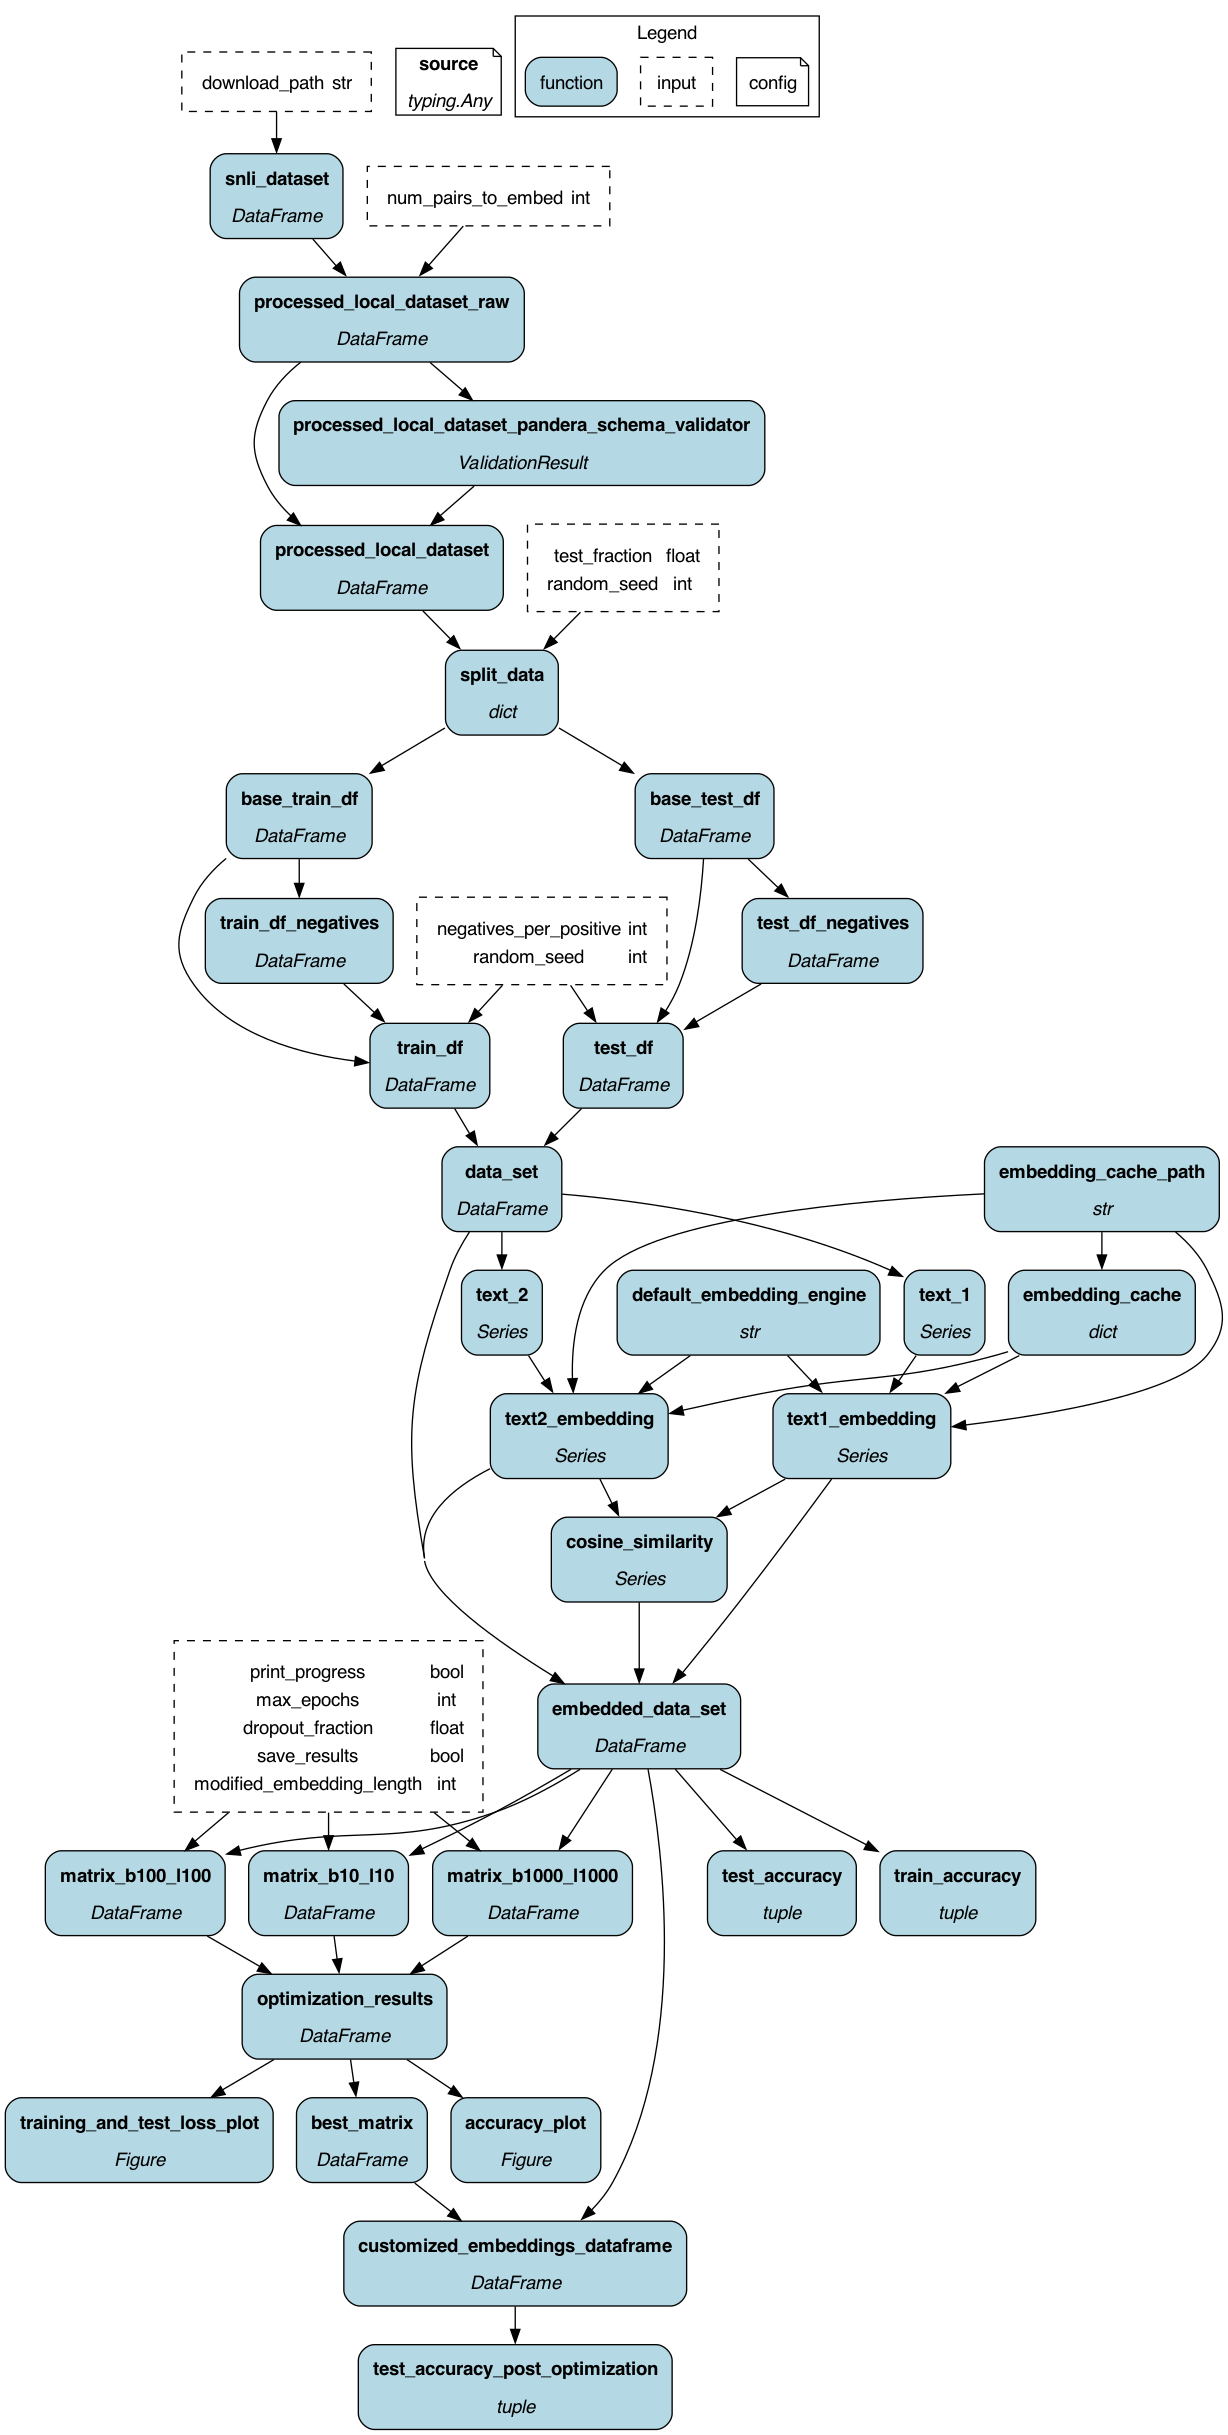
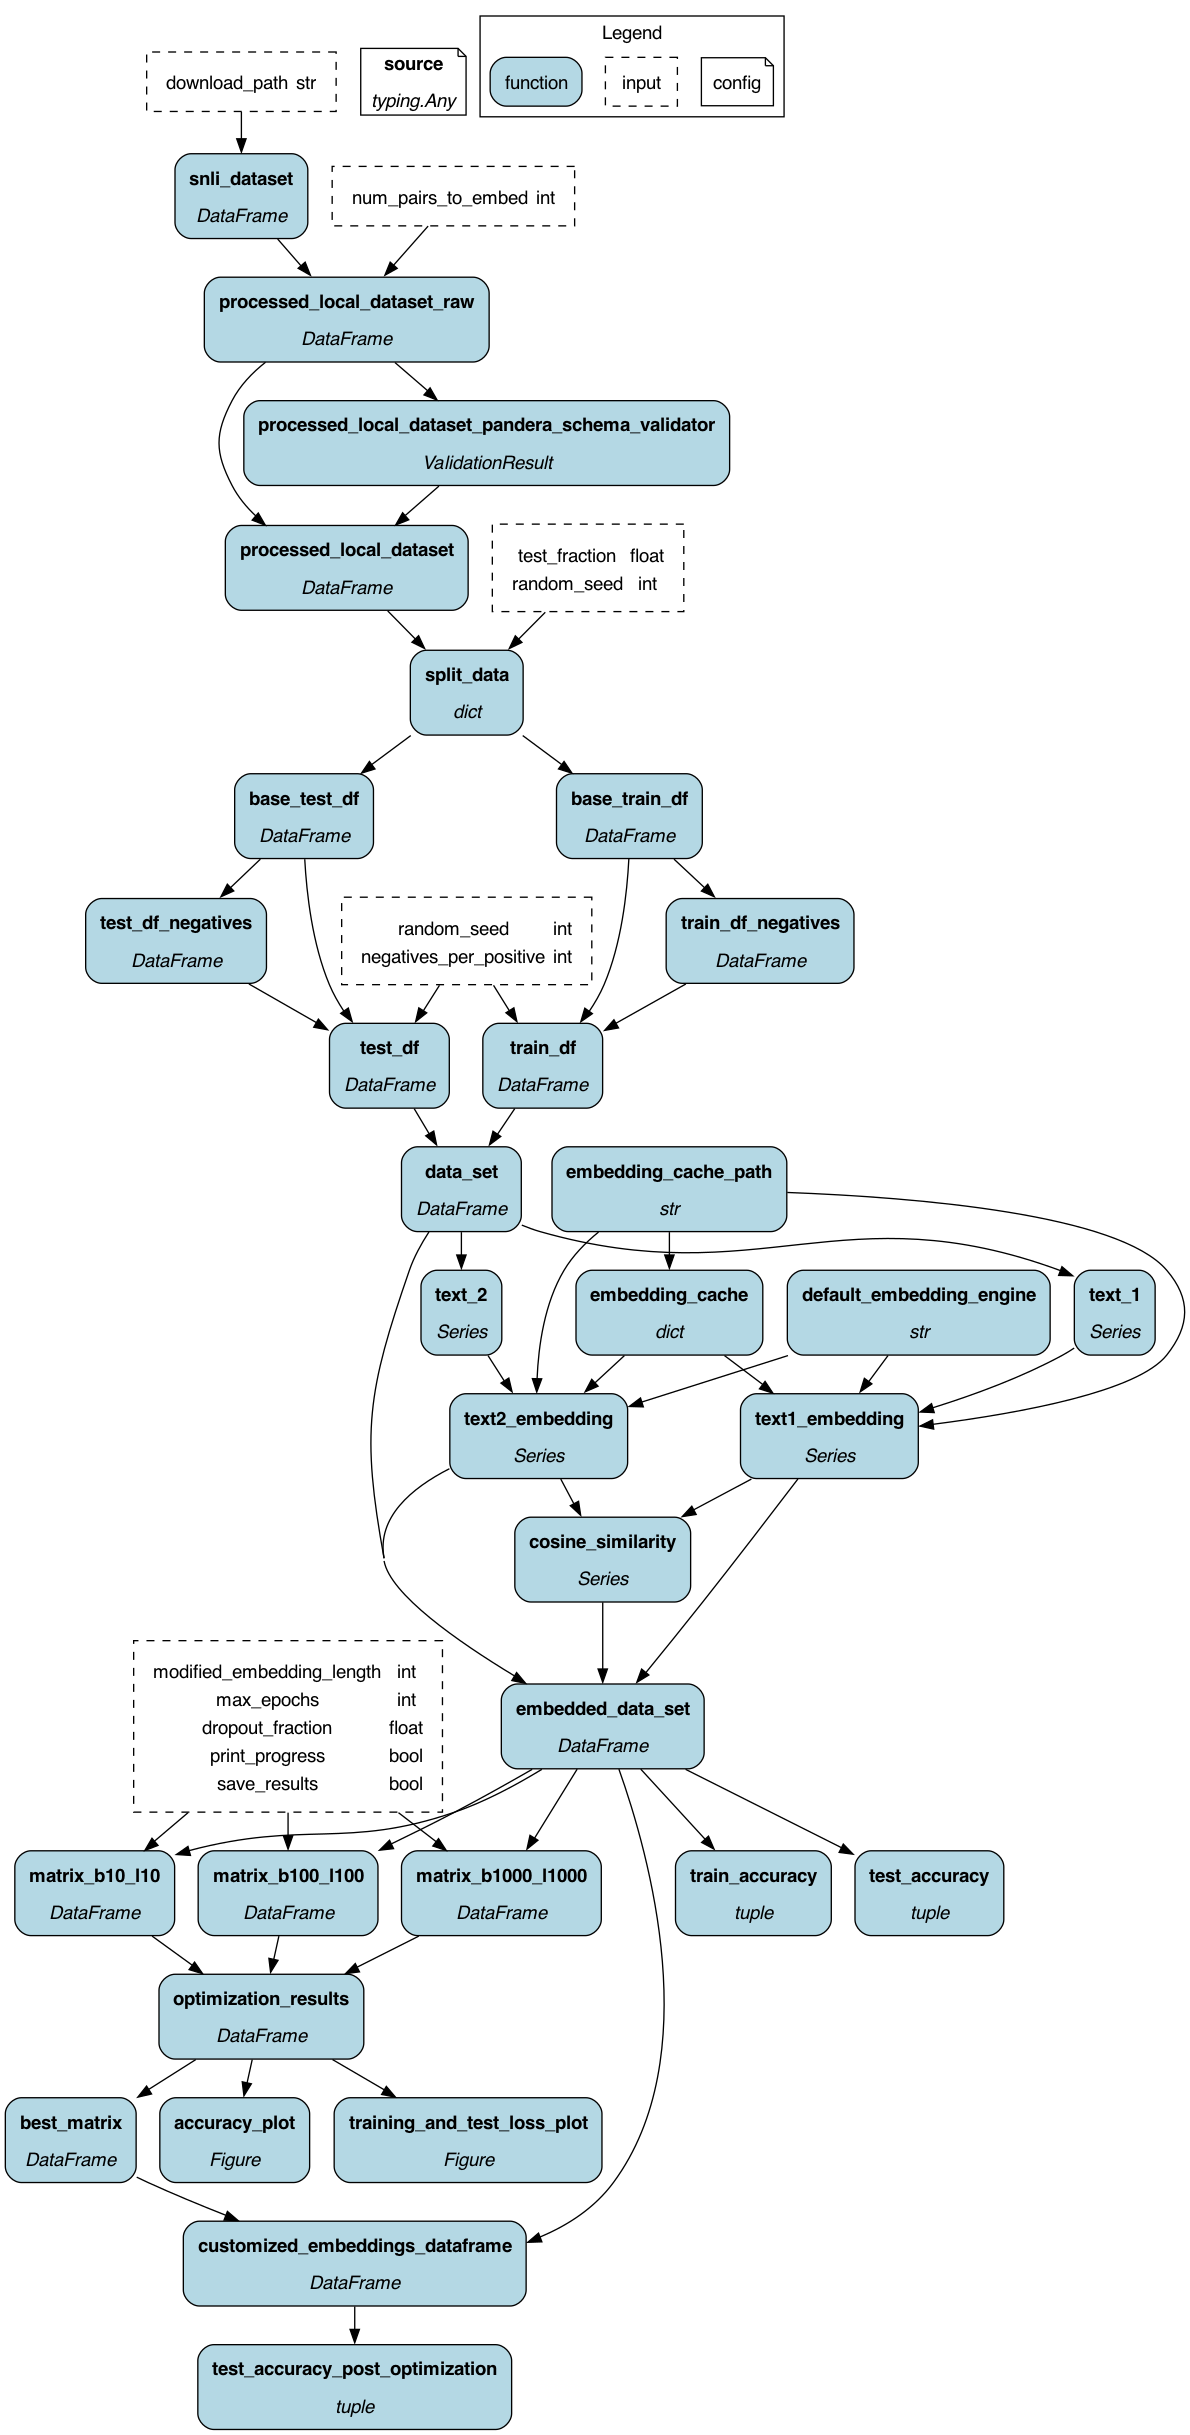
Responding to review comments.

diff --git a/contrib/hamilton/contrib/user/skrawcz/customize_embeddings/__init__.py b/contrib/hamilton/contrib/user/skrawcz/customize_embeddings/__init__.py
@@ -53,6 +53,7 @@ from hamilton.function_modifiers import (
     extract_fields,
     group,
     inject,
+    load_from,
     parameterize,
     source,
     value,
@@ -155,22 +156,24 @@ def processed_local_dataset__snli(
 
 @config.when(source="local")
 @check_output(schema=processed_dataset_schema, importance="fail")
+@load_from.csv(
+    path=source("local_dataset_path")
+    # see data loader docuemntation and the PandasCSVReader for values you can pass in:
+    #  - https://hamilton.dagworks.io/en/latest/reference/io/available-data-adapters/#data-loaders
+    #  - https://github.com/dagworks-inc/hamilton/blob/main/hamilton/plugins/pandas_extensions.py#L89-L255
+)
 def processed_local_dataset__local(
-    local_dataset_path: str,
-    read_csv_kwargs: dict = None,
+    local_dataset: pd.DataFrame,
 ) -> pd.DataFrame:
     """Uses a local dataset, reading it from the given path.
 
     Override this with a dataframe (`overrides={"processed_local_dataset": my_df}`) if you have your own dataset
     that's ready in a notebook, or modify it to match your use case.
 
-    :param local_dataset_path: path to file.
-    :param read_csv_kwargs: kwargs to pass to pd.read_csv. e.g. delimiter.
+    :param local_dataset: dataframe loaded by the Pandas CSV Reader.
     :return: dataframe of text pairs with labels. Schema: text_1, text_2, label (1 for similar, -1 for dissimilar).
     """
-    if read_csv_kwargs is None:
-        read_csv_kwargs = {}
-    return pd.read_csv(local_dataset_path, **read_csv_kwargs)
+    return local_dataset
 
 
 # split data into train and test sets
@@ -239,38 +242,40 @@ def test_df_negatives(base_test_df: pd.DataFrame) -> pd.DataFrame:
     return _df
 
 
-def train_df(
-    base_train_df: pd.DataFrame,
-    train_df_negatives: pd.DataFrame,
+@parameterize(
+    train_df={"base_df": source("base_train_df"), "df_negatives": source("train_df_negatives")},
+    test_df={"base_df": source("base_test_df"), "df_negatives": source("test_df_negatives")},
+)
+def construct_df(
+    base_df: pd.DataFrame,
+    df_negatives: pd.DataFrame,
     negatives_per_positive: int = 1,
     random_seed: int = 123,
 ) -> pd.DataFrame:
-    """Return dataframe of training pairs, with negatives added."""
+    f"""Return dataframe of {base_df} paris with negatives added."""
     return pd.concat(
         [
-            base_train_df,
-            train_df_negatives.sample(
-                n=len(base_train_df) * negatives_per_positive, random_state=random_seed
-            ),
+            base_df,
+            df_negatives.sample(n=len(base_df) * negatives_per_positive, random_state=random_seed),
         ]
     )
 
 
-def test_df(
-    base_test_df: pd.DataFrame,
-    test_df_negatives: pd.DataFrame,
-    negatives_per_positive: int = 1,
-    random_seed: int = 123,
-) -> pd.DataFrame:
-    """Return dataframe of testing pairs, with negatives added."""
-    return pd.concat(
-        [
-            base_test_df,
-            test_df_negatives.sample(
-                n=len(base_test_df) * negatives_per_positive, random_state=random_seed
-            ),
-        ]
-    )
+# def test_df(
+#     base_test_df: pd.DataFrame,
+#     test_df_negatives: pd.DataFrame,
+#     negatives_per_positive: int = 1,
+#     random_seed: int = 123,
+# ) -> pd.DataFrame:
+#     """Return dataframe of testing pairs, with negatives added."""
+#     return pd.concat(
+#         [
+#             base_test_df,
+#             test_df_negatives.sample(
+#                 n=len(base_test_df) * negatives_per_positive, random_state=random_seed
+#             ),
+#         ]
+#     )
 
 
 # Expose text_1 and text_2 columns from train and test dataframes
@@ -731,3 +736,7 @@ if __name__ == "__main__":
         ],
         inputs={},
     )
+    print(result["train_accuracy"])
+    print(result["test_accuracy"])
+    print(result["train_accuracy"])
+    print(result["test_accuracy_post_optimization"])

diff --git a/contrib/hamilton/contrib/user/skrawcz/customize_embeddings/README.md b/contrib/hamilton/contrib/user/skrawcz/customize_embeddings/README.md
@@ -1,6 +1,7 @@
 # Purpose of this module
 
-This module is used to customize embeddings for text data. It is based on MIT licensed code from the OpenAI cookbook.
+This module is used to customize embeddings for text data. It is based on MIT licensed code from
+this [OpenAI cookbook](https://github.com/openai/openai-cookbook/blob/main/examples/Customizing_embeddings.ipynb).
 
 The output is a matrix that you can use to multiply your embeddings. The product of this multiplication is a
 'custom embedding' that will better emphasize aspects of the text relevant to your use case.
@@ -25,7 +26,7 @@ If you pass in `{"source":"local"}` as configuration to the driver, the module w
 path to. The dataset should be a csv with columns "text_1", "text_2", and "label". The label should be +1 if the text
 pairs are similar and -1 if the text pairs are dissimilar.
 
-Otheriwse if you pass in `{}` as configuration to the driver, the module will require you to pass in a dataframe as
+Otherwise if you pass in `{}` as configuration to the driver, the module will require you to pass in a dataframe as
 `processed_local_dataset` as an input. The dataframe should have columns "text_1", "text_2", and "label". The label should be +1 if the
 text pairs are similar and -1 if the text pairs are dissimilar.
 
